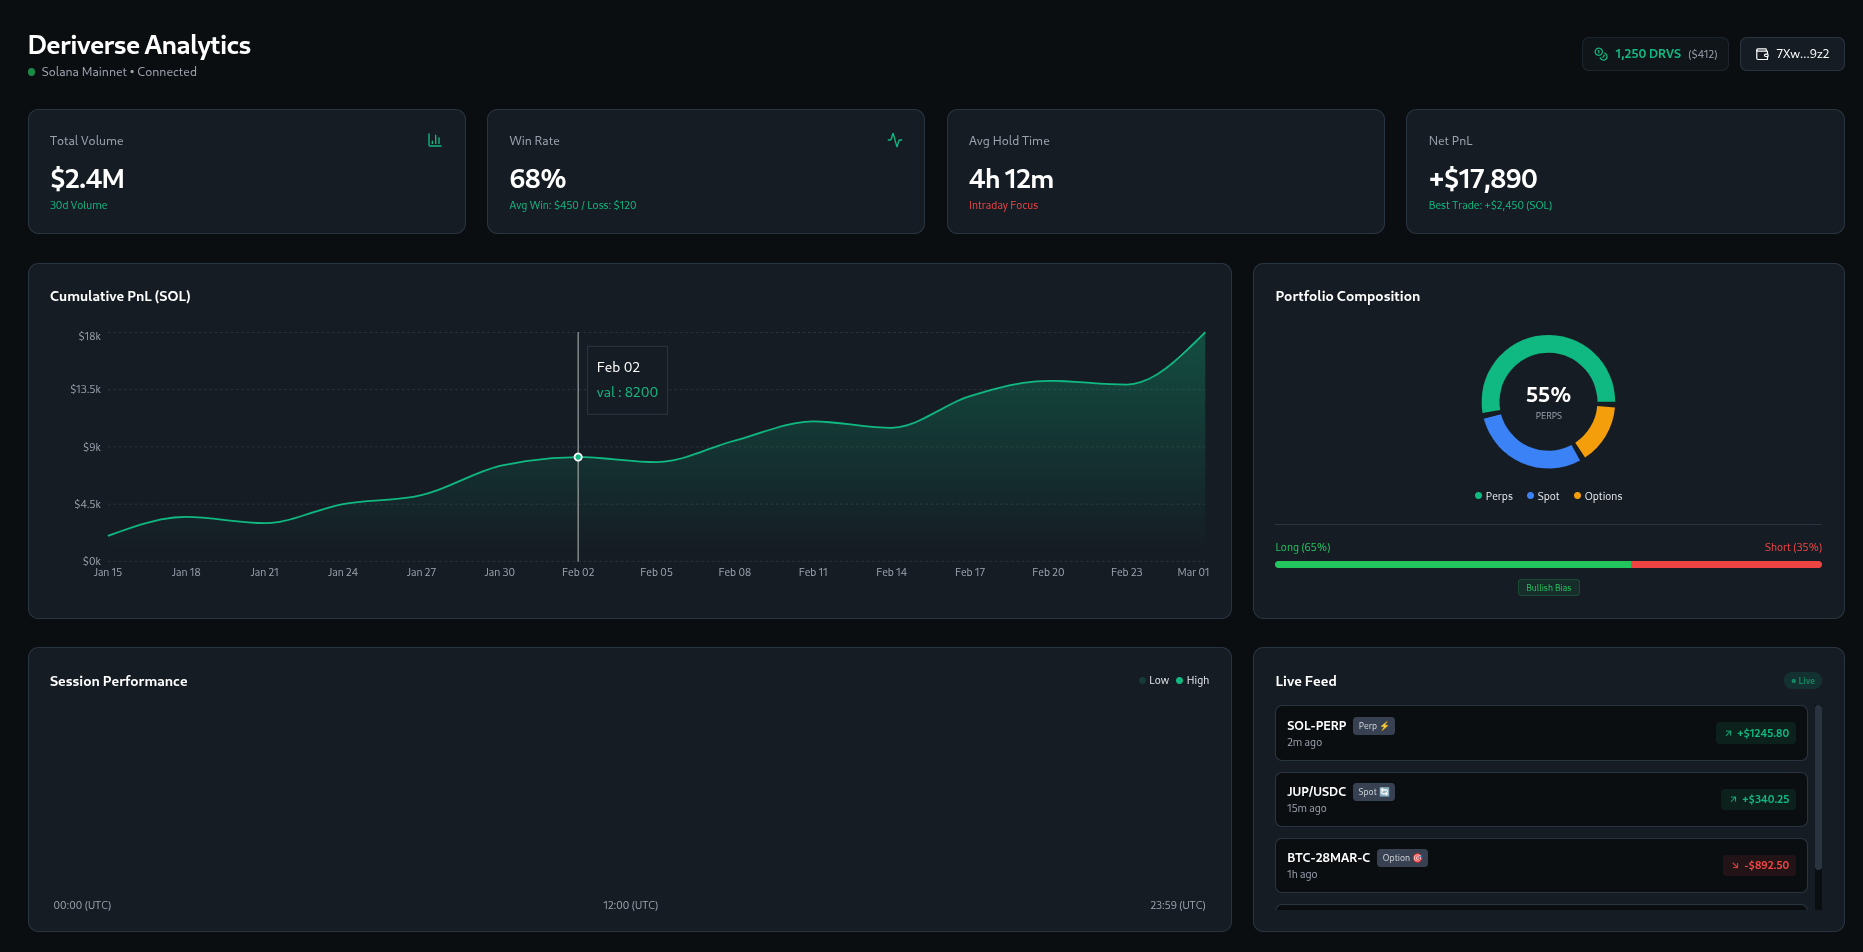
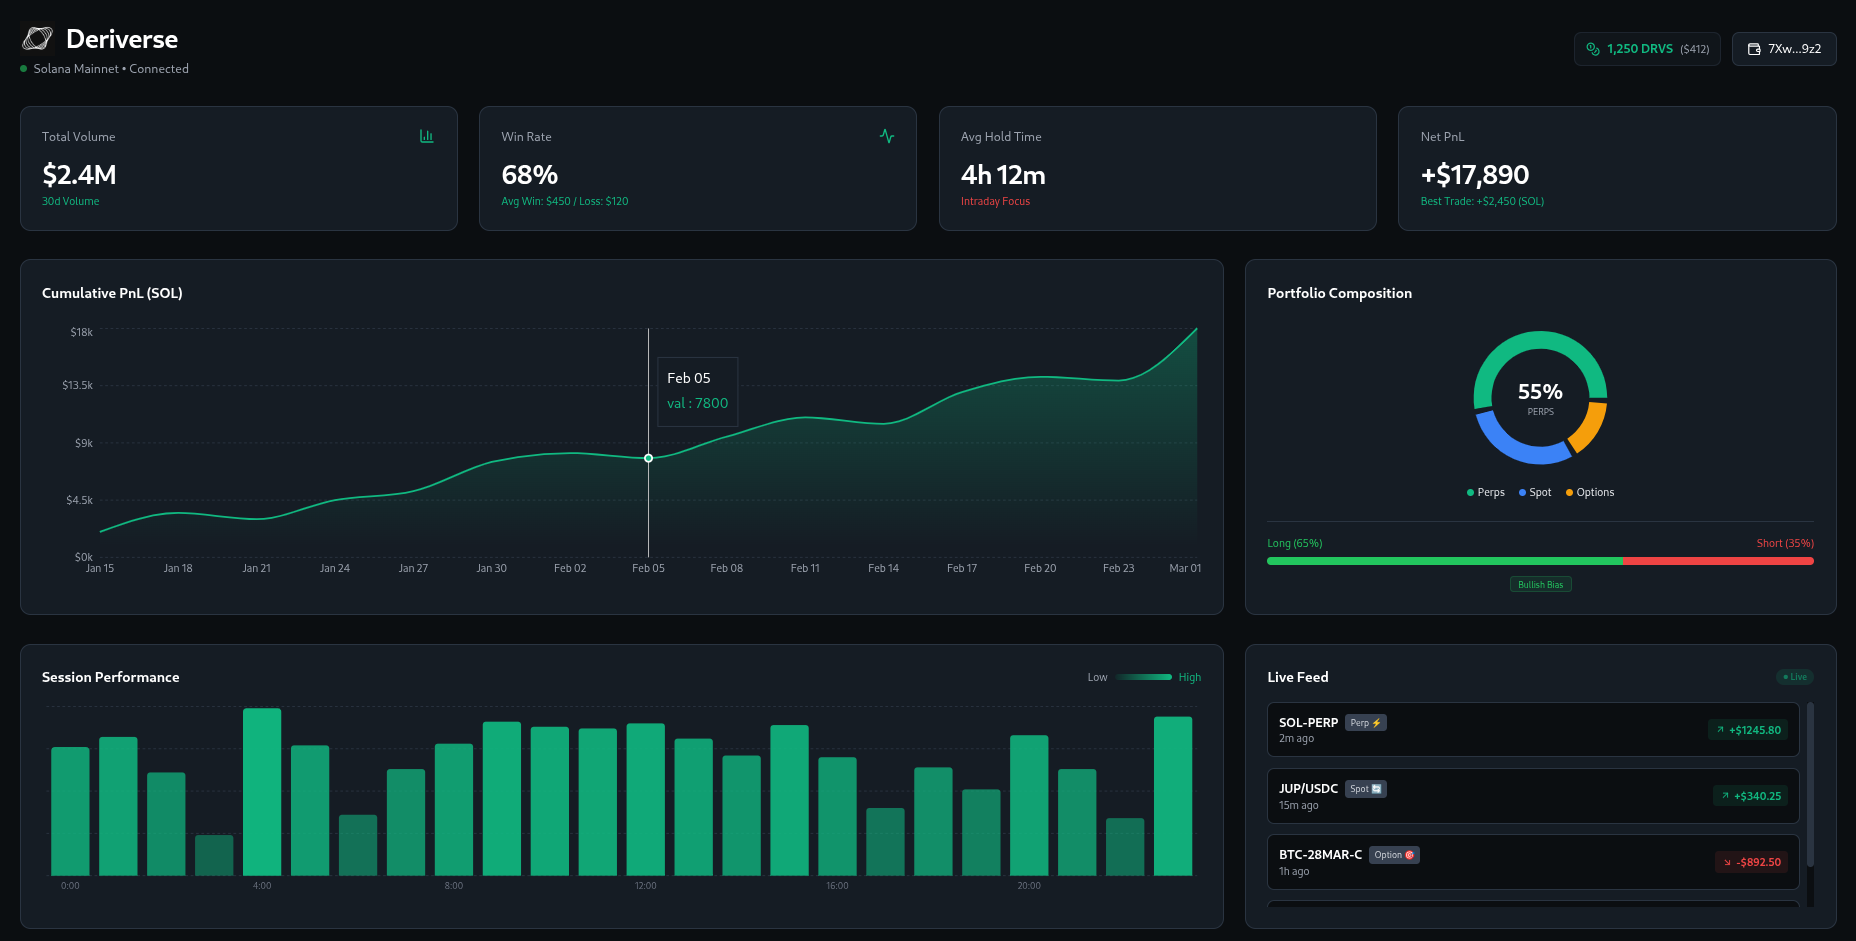
session perfomance

diff --git a/app/page.tsx b/app/page.tsx
@@ -1,7 +1,8 @@
 "use client";
 
 import { Activity, Filter, Download, Wallet, Coins, ArrowUpRight, ArrowDownRight, BarChart3 } from "lucide-react";
-import { AreaChart, Area, XAxis, YAxis, CartesianGrid, Tooltip, ResponsiveContainer, Pie, PieChart as RePieChart, Cell } from 'recharts';
+import { AreaChart, Area, XAxis, YAxis, CartesianGrid, Tooltip, ResponsiveContainer, Pie, PieChart as RePieChart, Cell, BarChart, Bar } from 'recharts';
+import Image from "next/image";
 
 // --- 1. DATA: Deriverse Ecosystem (Spot, Perps, Options) ---
 const pnlData = [
@@ -20,6 +21,17 @@ const ecosystemData = [
   { name: 'Spot', value: 30, color: '#3B82F6' },
   { name: 'Options', value: 15, color: '#F59E0B' },
 ];
+
+// Generate static activity data for 24 hours
+const sessionData = Array.from({ length: 24 }, (_, i) => {
+  // Simulate "Golden Hours" (8am-11am & 1pm-4pm are busy)
+  const isBusy = (i >= 8 && i <= 11) || (i >= 13 && i <= 16);
+  const base = isBusy ? 70 : 20;
+  return {
+    hour: `${i}:00`,
+    activity: Math.floor(Math.random() * (100 - base) + base), // Random activity 0-100
+  };
+});
 
 const trades = [
   { symbol: "SOL-PERP", pnl: "+$1245.80", time: "2m ago", isWin: true, type: "Perp ⚡" },
@@ -45,7 +57,17 @@ export default function Dashboard() {
       <header className="mb-8 flex flex-col md:flex-row justify-between items-start md:items-center gap-4">
         <div>
           <h1 className="text-3xl font-bold text-white tracking-tight flex items-center gap-3">
-            Deriverse Analytics
+            {/* Custom Logo Image */}
+            <div className="relative w-10 h-10">
+              <Image 
+                src="/logo.png" 
+                alt="Deriverse Logo" 
+                fill
+                className="object-contain"
+                priority
+              />
+            </div>
+            Deriverse
           </h1>
           <div className="flex items-center gap-2 mt-1">
              <span className="flex h-2 w-2 rounded-full bg-green-500 animate-pulse"></span>
@@ -54,17 +76,30 @@ export default function Dashboard() {
         </div>
         
         <div className="flex flex-wrap gap-3">
-           {/* DRVS Rewards */}
-           <div className="flex items-center gap-2 bg-surface/50 border border-border/50 px-3 py-2 rounded-lg text-sm text-primary">
-             <Coins size={16} />
-             <span className="font-bold">1,250 DRVS</span>
-             <span className="text-xs text-muted">($412)</span>
-           </div>
+          {/* DRVS Rewards */}
+          <div className="group relative">
+            <div className="flex items-center gap-2 bg-surface/50 border border-border/50 px-3 py-2 rounded-lg text-sm text-primary transition-all duration-300 hover:bg-primary/10 hover:border-primary hover:scale-105 cursor-pointer">
+              <Coins size={16} />
+              <span className="font-bold">1,250 DRVS</span>
+              <span className="text-xs text-muted">($412)</span>
+            </div>
+            {/* Tooltip */}
+            <div className="absolute top-full mt-2 left-1/2 -translate-x-1/2 w-max bg-gray-900 border border-white/10 text-white text-[10px] font-medium px-2 py-1 rounded opacity-0 group-hover:opacity-100 transition-opacity duration-200 pointer-events-none z-50">
+              Pending Ecosystem Rewards
+            </div>
+          </div>
 
-           <button className="flex items-center gap-2 bg-surface border border-border px-4 py-2 rounded-lg text-sm font-medium hover:border-primary transition-colors text-white group">
-             <Wallet size={16} className="group-hover:text-primary transition-colors" />
-             7Xw...9z2
-           </button>
+          {/* Wallet Button*/}
+          <div className="group relative">
+            <button className="flex items-center gap-2 bg-surface border border-border px-4 py-2 rounded-lg text-sm font-medium transition-all duration-300 hover:border-primary hover:bg-primary/10 hover:shadow-[0_0_10px_rgba(16,185,129,0.2)] text-white">
+              <Wallet size={16} className="group-hover:text-primary transition-colors duration-300" />
+              7Xw...9z2
+            </button>
+            {/* Tooltip */}
+            <div className="absolute top-full mt-2 right-0 w-max bg-gray-900 border border-white/10 text-white text-[10px] font-medium px-2 py-1 rounded opacity-0 group-hover:opacity-100 transition-opacity duration-200 pointer-events-none z-50">
+              Connect Wallet
+            </div>
+          </div>
         </div>
       </header>
 
@@ -172,40 +207,43 @@ export default function Dashboard() {
       {/* HEATMAP & RECENT TRADES */}
       <div className="grid grid-cols-1 lg:grid-cols-3 gap-6 mb-8">
          {/* Time of Day Heatmap (FIXED HYDRATION ERROR) */}
-         <div className="lg:col-span-2 bg-surface rounded-xl border border-border p-6 h-[320px]">
-            <div className="flex justify-between items-center mb-6">
+         <div className="lg:col-span-2 bg-surface rounded-xl border border-border p-6 h-[320px] flex flex-col">
+            <div className="flex justify-between items-center mb-4">
               <h3 className="font-semibold text-white">Session Performance</h3>
-              <div className="flex gap-2 text-xs">
-                 <span className="flex items-center gap-1"><div className="w-2 h-2 bg-primary/20 rounded"></div> Low</span>
-                 <span className="flex items-center gap-1"><div className="w-2 h-2 bg-primary rounded"></div> High</span>
+              <div className="flex items-center gap-2 text-xs font-medium">
+                 <span className="text-muted">Low</span>
+                 {/* Gradient Legend Line */}
+                 <div className="w-16 h-1.5 rounded-full bg-gradient-to-r from-emerald-900/20 to-emerald-500"></div>
+                 <span className="text-primary">High</span>
               </div>
             </div>
-            <div className="grid grid-rows-7 gap-1 h-[200px]">
-               {[...Array(7)].map((_, day) => (
-                 <div key={day} className="grid grid-cols-24 gap-1">
-                    {[...Array(24)].map((_, hour) => {
-                       // Deterministic calculation instead of Math.random()
-                       // This ensures Server HTML matches Client HTML
-                       const seed = (day + 1) * (hour + 1) * 7; 
-                       const opacity = Math.abs(Math.sin(seed)); 
-                       
-                       const isActive = opacity > 0.35;
-                       return (
-                         <div 
-                           key={hour} 
-                           className={`rounded-sm ${isActive ? 'bg-primary' : 'bg-border'}`} 
-                           style={{ opacity: isActive ? opacity : 0.1 }} 
-                           title={`Day ${day+1} Hour ${hour}:00`}
-                         ></div>
-                       );
-                    })}
-                 </div>
-               ))}
-            </div>
-            <div className="flex justify-between text-xs text-muted mt-2 px-1">
-               <span>00:00 (UTC)</span>
-               <span>12:00 (UTC)</span>
-               <span>23:59 (UTC)</span>
+
+            {/* Recharts Activity Bar Graph */}
+            <div className="flex-1 w-full min-h-0">
+               <ResponsiveContainer width="100%" height="100%">
+                 <BarChart data={sessionData}>
+                   <CartesianGrid strokeDasharray="3 3" vertical={false} stroke="#2A3441" />
+                   <XAxis 
+                      dataKey="hour" 
+                      axisLine={false} 
+                      tickLine={false} 
+                      tick={{ fill: '#6b7280', fontSize: 10 }}
+                      interval={3} 
+                   />
+                   <Tooltip 
+                      cursor={{ fill: 'rgba(255,255,255,0.05)' }}
+                      contentStyle={{ backgroundColor: '#151C24', borderColor: '#2A3441', color: '#fff' }}
+                   />
+                   <Bar dataKey="activity" radius={[4, 4, 0, 0]}>
+                      {sessionData.map((entry, index) => (
+                        <Cell 
+                          key={`cell-${index}`} 
+                          fill={`rgba(16, 185, 129, ${0.3 + (entry.activity / 150)})`} // Dynamic Opacity
+                        />
+                      ))}
+                   </Bar>
+                 </BarChart>
+               </ResponsiveContainer>
             </div>
          </div>
 
